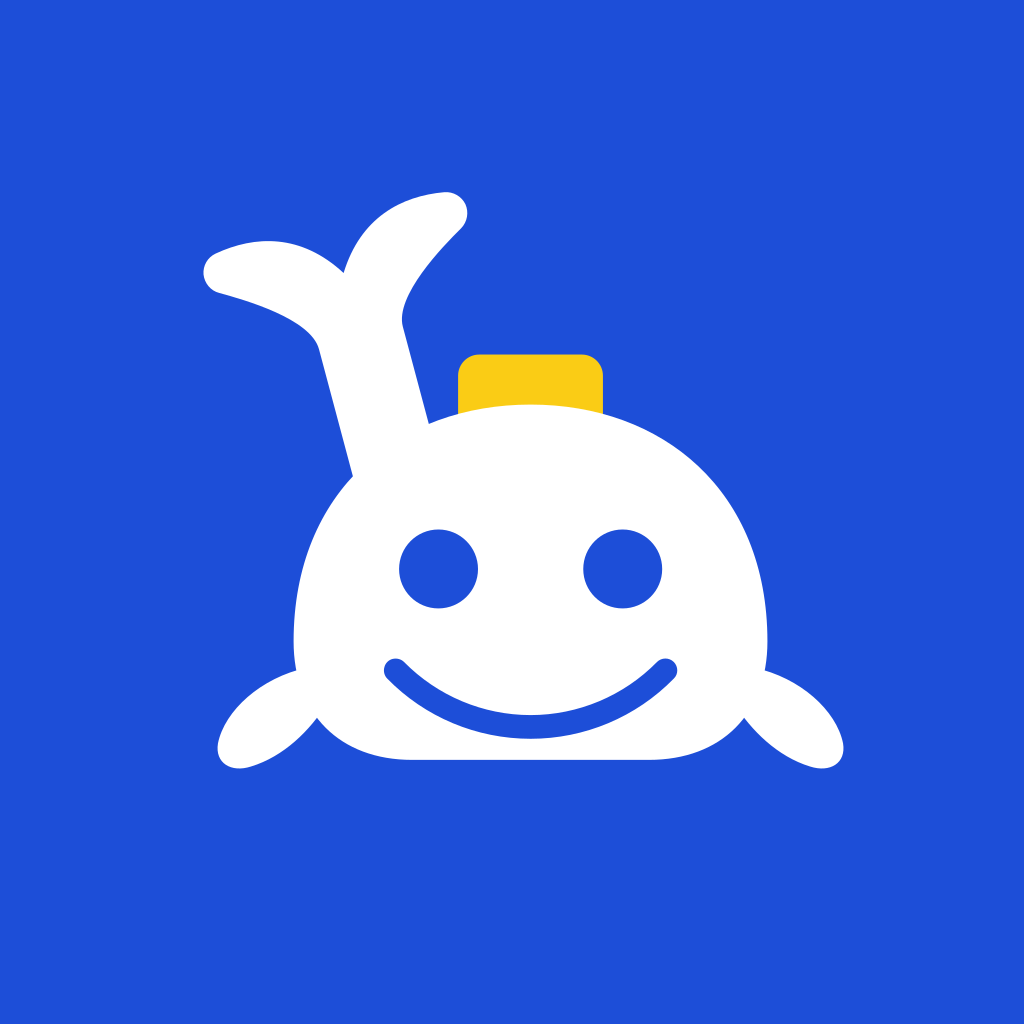
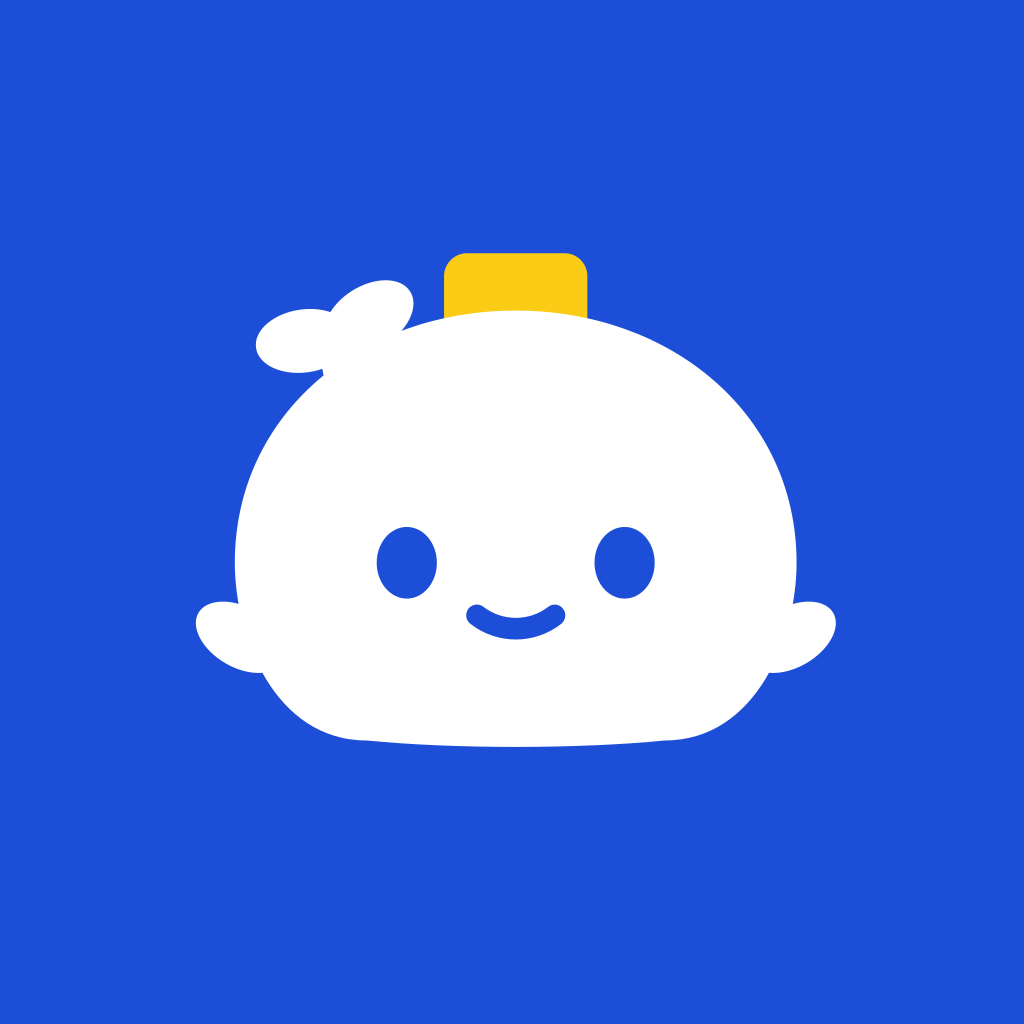
fix(brand): 고래를 작은 미소의 둥근 캐릭터로 다듬음
- 고래 정본과 웹·앱 아이콘, OG를 같은 비율로 다시 생성함
- 작은 눈과 미소, 짧은 꼬리로 표정을 부드럽게 하고 브랜드 기준과 시안을 기록함
- 검증: 자산 동기화·안전 영역·무알파 검사, 웹 4게이트와 모바일 3게이트 통과

Changed region(s): [[0.1875, 0.1875, 0.8438, 0.75], [0.3438, 0.5, 0.5625, 0.625], [0.5625, 0.5312, 0.6562, 0.5938]]

diff --git a/apps/web/src/shared/ui/logo/logo.tsx b/apps/web/src/shared/ui/logo/logo.tsx
@@ -1,7 +1,7 @@
 import { cn } from "@shared/lib";
 
 export interface LogoProps {
-  /** 고래 마크의 가로 픽셀 크기. 세로는 마크 비율(270:243.1)로 정해진다. */
+  /** 고래 마크의 가로 픽셀 크기. 세로는 마크 비율(223.3:172.3)로 정해진다. */
   readonly size?: number;
   readonly showWordmark?: boolean;
   readonly className?: string;
@@ -14,18 +14,26 @@ export interface LogoProps {
  * 정본은 같은 폴더의 `mark.svg`다. 아래 두 경로는 그 파일에서 그대로 복사했고,
  * `scripts/build-brand-icons.mjs`가 문자열이 같은지 검사한다. 마크를 고치면 mark.svg를 먼저 고친다.
  *
- * viewBox는 그림 경계에 딱 맞춘다(꼬리 끝 y=0 ~ 지느러미 끝 y=243.1). 높이도 같은 비율로 계산하므로
- * preserveAspectRatio 레터박스로 빈 띠가 생기지 않는다. 분수 브릭도 이 상자 안(머리 오른쪽 위 빈자리)에
- * 앉혀 spout 변형이 같은 viewBox를 쓴다 — 애니메이션 중 떨어지는 브릭만 overflow로 보인다.
+ * viewBox는 그림 경계에 딱 맞춘다(스터드 윗면 y=0 ~ 배 아래 y=172.3). 높이도 같은 비율로 계산하므로
+ * preserveAspectRatio 레터박스로 빈 띠가 생기지 않는다. 스터드가 맨 위라 상자 안에 분수 자리가 없으므로,
+ * spout 변형만 viewBox를 위로 SPOUT_HEADROOM만큼 넓혀 물줄기·브릭을 상자 안에 둔다.
  */
-const MARK_W = 270;
-const MARK_H = 243.1;
-/** 머리·꼬리·지느러미. 눈과 입은 반대 방향으로 감은 윤곽이라 nonzero 규칙에서 구멍이 된다. */
+const MARK_W = 223.3;
+const MARK_H = 172.3;
+/** spout 변형에서 스터드 위로 물줄기·브릭이 올라갈 자리(마크 단위). */
+const SPOUT_HEADROOM = 58;
+/** 몸·꼬리·지느러미. 눈과 입은 반대 방향으로 감은 윤곽이라 nonzero 규칙에서 구멍이 된다. */
 const BODY_D =
-  "M48.7 66.2C45.2 53.3 17.2 45.4 6.6 42.5C3 41.6 0.4 38.4 0 34.7C-0.3 31 1.7 27.5 5.1 25.9C21.7 18.2 41.1 17.4 59.1 34.1C66.2 10.7 83.4 1.6 101.6 0C105.4 -0.3 108.9 1.8 110.5 5.1C112 8.5 111.3 12.5 108.7 15.2C100.9 22.9 80.6 43.8 84.1 56.8L102 123.8L66.6 133.3ZM38 189.5C38 125.7 82.5 89.6 138 89.6C193.5 89.6 237.9 125.7 237.9 189.5C237.9 220.1 218.5 239.5 187.9 239.5L88 239.5C57.5 239.5 38 220.1 38 189.5ZM51.9 215.9C45 227 33.9 238.1 20 242.3C11.7 245 4.7 240.9 6.1 232.5C8.9 218.7 24.2 204.8 43.6 200.6ZM232.3 200.6C251.8 204.8 267 218.7 269.8 232.5C271.2 240.9 264.3 245 255.9 242.3C242.1 238.1 231 227 224 215.9ZM82.5 159C82.5 168.2 89.9 175.6 99.1 175.6C108.3 175.6 115.8 168.2 115.8 159C115.8 149.8 108.3 142.3 99.1 142.3C89.9 142.3 82.5 149.8 82.5 159ZM160.2 159C160.2 168.2 167.6 175.6 176.8 175.6C186 175.6 193.5 168.2 193.5 159C193.5 149.8 186 142.3 176.8 142.3C167.6 142.3 160.2 149.8 160.2 159ZM77.5 205.2C93.4 221.5 115.2 230.6 138 230.6C160.7 230.6 182.5 221.5 198.4 205.2C200.4 203.3 200.3 200.1 198.4 198.2C196.4 196.2 193.2 196.3 191.3 198.2C177.3 212.5 158 220.6 138 220.6C117.9 220.6 98.7 212.5 84.6 198.2C83.4 197 81.6 196.5 79.8 196.9C78.1 197.3 76.7 198.7 76.3 200.4C75.8 202.1 76.3 204 77.5 205.2Z";
+  "M111.6 20C165.6 20 209.6 56 209.6 108C209.6 134 195.6 170 163.6 170C133.6 173 89.6 173 59.6 170C27.6 170 13.6 134 13.6 108C13.6 56 57.6 20 111.6 20ZM64.3 39.1C67.3 47.4 65.6 55.6 60.4 57.5C55.2 59.4 48.5 54.2 45.5 45.9C42.5 37.6 44.2 29.3 49.4 27.4C54.6 25.6 61.3 30.8 64.3 39.1ZM54.6 28.2C55.5 34.3 48.6 40.2 39.3 41.5C30 42.8 21.8 39 21 33C20.1 27 27 21 36.3 19.7C45.6 18.4 53.8 22.2 54.6 28.2ZM74.8 13.4C78 18.5 74.2 26.8 66.2 31.7C58.2 36.7 49.2 36.6 45.9 31.4C42.7 26.3 46.6 18.1 54.5 13.1C62.5 8.1 71.6 8.2 74.8 13.4ZM30.4 142.5C27.5 147.5 18.5 147.8 10.4 143.1C2.3 138.4 -2 130.5 0.9 125.5C3.8 120.5 12.8 120.2 20.9 124.9C29 129.6 33.3 137.5 30.4 142.5ZM222.4 125.5C225.3 130.5 221 138.4 212.9 143.1C204.8 147.8 195.8 147.5 192.9 142.5C190 137.5 194.3 129.6 202.4 124.9C210.5 120.2 219.5 120.5 222.4 125.5ZM84.1 108C84.1 101.1 79.4 95.5 73.6 95.5C67.8 95.5 63.1 101.1 63.1 108C63.1 114.9 67.8 120.5 73.6 120.5C79.4 120.5 84.1 114.9 84.1 108ZM160.1 108C160.1 101.1 155.4 95.5 149.6 95.5C143.8 95.5 139.1 101.1 139.1 108C139.1 114.9 143.8 120.5 149.6 120.5C155.4 120.5 160.1 114.9 160.1 108ZM127.5 129.3C129.1 128 129.4 125.7 128.1 124C126.9 122.4 124.5 122.1 122.9 123.4C116.3 128.5 107 128.5 100.4 123.4C98.8 122.1 96.4 122.4 95.1 124C93.9 125.7 94.1 128 95.8 129.3C105.1 136.6 118.2 136.6 127.5 129.3Z";
 /** 머리 위 골드 스터드. 몸보다 먼저 그려 아랫단을 머리 속에 묻는다. */
 const GOLD_D =
-  "M116.3 68.5L159.6 68.5C164.5 68.5 168.5 72.5 168.5 77.4L168.5 97.4C168.5 102.3 164.5 106.3 159.6 106.3L116.3 106.3C111.4 106.3 107.4 102.3 107.4 97.4L107.4 77.4C107.4 72.5 111.4 68.5 116.3 68.5Z";
+  "M94.6 0L128.6 0C133.1 0 136.6 3.6 136.6 8L136.6 22C136.6 26.4 133.1 30 128.6 30L94.6 30C90.2 30 86.6 26.4 86.6 22L86.6 8C86.6 3.6 90.2 0 94.6 0Z";
+
+/**
+ * 분수 배치. 아래 물줄기·브릭은 이전 마크(스터드 윗면 가운데 138, 68.5) 좌표로 그렸다. 새 스터드
+ * 윗면 가운데(111.6, 0)로 옮기고, 마크가 작아진 비율(223.3/270 ≈ 0.83)만큼 줄인다.
+ */
+const SPOUT_PLACE = "translate(111.6 0) scale(0.83) translate(-138 -68.5)";
 
 /** 1×2 브릭 한 개 — 몸 34×17 위에 스터드 두 개. */
 function SpoutBrick({ x, y, className }: { x: number; y: number; className: string }) {
@@ -39,11 +47,13 @@ function SpoutBrick({ x, y, className }: { x: number; y: number; className: stri
 }
 
 /**
- * GoLe 고래 — 정면을 보는 둥근 고래, 머리 위에 골드 스터드 하나, 머리 뒤로 솟은 꼬리.
+ * GoLe 고래 — 정면을 보는 통통한 아기 고래, 정수리에 골드 스터드 하나, 머리 뒤로 살짝 나온 짧은 꼬리.
  *
  * <p>설계 원칙: 레고 미니피규어 머리처럼 정수리에 스터드가 하나 있다. 브릭다움은 이 스터드가,
- * 고래다움은 머리 뒤 꼬리(플루크)·넓은 입선·옆 지느러미가 맡는다. 옆모습 고래 등에 네모를 얹는
- * 구도(Docker 로고와 닮은 구도)를 쓰지 않는다. 16px에서는 실루엣·두 눈·골드 한 점이 남는다.
+ * 고래다움은 머리 뒤 둥근 플루크·옆 지느러미가 맡는다. 귀여움은 비율에서 나온다 — 매끈한 돔과
+ * 볼살 같은 아랫단, 아래쪽에 넓게 벌어진 작은 타원 눈, 눈 사이 아래의 작은 미소. 큰 흰 눈·얼굴을
+ * 가로지르는 입·뾰족한 꼬리는 무섭게 읽혀서(2026-10-09 사용자 피드백) 쓰지 않는다. 옆모습 고래 등에
+ * 네모를 얹는 구도(Docker 로고와 닮은 구도)도 쓰지 않는다. 16px에서는 실루엣·두 눈·골드 한 점이 남는다.
  *
  * <p>색은 두 가지 + 골드 한 점이다. 몸·골드는 테마 토큰(brand-600·accent-500)을 따르고,
  * 어두운 배경에서는 호출부가 `[--gole-mark-body:...]`로 몸 색만 바꿀 수 있다(예: 푸터의 흰 고래).
@@ -51,6 +61,8 @@ function SpoutBrick({ x, y, className }: { x: number; y: number; className: stri
  *
  * <p>스터드가 곧 분수공이다. spout 변형은 스터드에서 물줄기와 브릭이 솟아 꼬리 반대쪽(오른쪽)으로
  * 떨어진다. `gole-spout-*` 키프레임이 브릭을 오른쪽 아래로 떨어뜨리므로 그룹을 뒤집지 않는다.
+ * 분수 도형은 이전 마크의 좌표로 그려 두고 SPOUT_PLACE 한 번으로 새 스터드 윗면 가운데에 옮긴다 —
+ * 키프레임이 `transform-box: fill-box`라 축척을 바꿔도 움직임 비율이 그대로다.
  */
 export function Logo({
   size = 32,
@@ -59,21 +71,22 @@ export function Logo({
   accentClassName = "text-brand-600",
   spout = false,
 }: LogoProps) {
+  const headroom = spout ? SPOUT_HEADROOM : 0;
   return (
     <span
       className={cn("inline-flex items-center gap-1.5 font-extrabold tracking-tight", className)}
     >
       <svg
         width={size}
-        height={Math.round((size * MARK_H) / MARK_W)}
-        viewBox={`0 0 ${MARK_W} ${MARK_H}`}
+        height={Math.round((size * (MARK_H + headroom)) / MARK_W)}
+        viewBox={`0 ${-headroom} ${MARK_W} ${MARK_H + headroom}`}
         fill="none"
         aria-hidden="true"
         className="shrink-0 overflow-visible"
       >
         {spout ? (
           // 몸보다 먼저 그려, 떨어지는 브릭이 머리 뒤로 사라지게 한다.
-          <>
+          <g transform={SPOUT_PLACE}>
             <path
               d="M134 66C130 54 128 45 125 37M140 64C142 50 148 40 158 32M146 68C158 58 172 53 188 52"
               strokeWidth="4"
@@ -84,7 +97,7 @@ export function Logo({
             <SpoutBrick x={150} y={24} className="gole-spout-brick-a fill-accent-500" />
             <SpoutBrick x={200} y={8} className="gole-spout-brick-b fill-brand-400" />
             <SpoutBrick x={222} y={52} className="gole-spout-brick-c fill-brand-300" />
-          </>
+          </g>
         ) : null}
         {/* fill 속성은 CSS가 없을 때의 대비값이다. 클래스(토큰 + 변수)가 항상 이긴다. */}
         <path

diff --git a/apps/web/src/app/opengraph-image.tsx b/apps/web/src/app/opengraph-image.tsx
@@ -13,9 +13,9 @@ export const contentType = "image/png";
  * 읽지 않도록 문자열로 들고 있고, `scripts/build-brand-icons.mjs`가 정본과 같은지 검사한다.
  */
 const MARK_BODY_D =
-  "M48.7 66.2C45.2 53.3 17.2 45.4 6.6 42.5C3 41.6 0.4 38.4 0 34.7C-0.3 31 1.7 27.5 5.1 25.9C21.7 18.2 41.1 17.4 59.1 34.1C66.2 10.7 83.4 1.6 101.6 0C105.4 -0.3 108.9 1.8 110.5 5.1C112 8.5 111.3 12.5 108.7 15.2C100.9 22.9 80.6 43.8 84.1 56.8L102 123.8L66.6 133.3ZM38 189.5C38 125.7 82.5 89.6 138 89.6C193.5 89.6 237.9 125.7 237.9 189.5C237.9 220.1 218.5 239.5 187.9 239.5L88 239.5C57.5 239.5 38 220.1 38 189.5ZM51.9 215.9C45 227 33.9 238.1 20 242.3C11.7 245 4.7 240.9 6.1 232.5C8.9 218.7 24.2 204.8 43.6 200.6ZM232.3 200.6C251.8 204.8 267 218.7 269.8 232.5C271.2 240.9 264.3 245 255.9 242.3C242.1 238.1 231 227 224 215.9ZM82.5 159C82.5 168.2 89.9 175.6 99.1 175.6C108.3 175.6 115.8 168.2 115.8 159C115.8 149.8 108.3 142.3 99.1 142.3C89.9 142.3 82.5 149.8 82.5 159ZM160.2 159C160.2 168.2 167.6 175.6 176.8 175.6C186 175.6 193.5 168.2 193.5 159C193.5 149.8 186 142.3 176.8 142.3C167.6 142.3 160.2 149.8 160.2 159ZM77.5 205.2C93.4 221.5 115.2 230.6 138 230.6C160.7 230.6 182.5 221.5 198.4 205.2C200.4 203.3 200.3 200.1 198.4 198.2C196.4 196.2 193.2 196.3 191.3 198.2C177.3 212.5 158 220.6 138 220.6C117.9 220.6 98.7 212.5 84.6 198.2C83.4 197 81.6 196.5 79.8 196.9C78.1 197.3 76.7 198.7 76.3 200.4C75.8 202.1 76.3 204 77.5 205.2Z";
+  "M111.6 20C165.6 20 209.6 56 209.6 108C209.6 134 195.6 170 163.6 170C133.6 173 89.6 173 59.6 170C27.6 170 13.6 134 13.6 108C13.6 56 57.6 20 111.6 20ZM64.3 39.1C67.3 47.4 65.6 55.6 60.4 57.5C55.2 59.4 48.5 54.2 45.5 45.9C42.5 37.6 44.2 29.3 49.4 27.4C54.6 25.6 61.3 30.8 64.3 39.1ZM54.6 28.2C55.5 34.3 48.6 40.2 39.3 41.5C30 42.8 21.8 39 21 33C20.1 27 27 21 36.3 19.7C45.6 18.4 53.8 22.2 54.6 28.2ZM74.8 13.4C78 18.5 74.2 26.8 66.2 31.7C58.2 36.7 49.2 36.6 45.9 31.4C42.7 26.3 46.6 18.1 54.5 13.1C62.5 8.1 71.6 8.2 74.8 13.4ZM30.4 142.5C27.5 147.5 18.5 147.8 10.4 143.1C2.3 138.4 -2 130.5 0.9 125.5C3.8 120.5 12.8 120.2 20.9 124.9C29 129.6 33.3 137.5 30.4 142.5ZM222.4 125.5C225.3 130.5 221 138.4 212.9 143.1C204.8 147.8 195.8 147.5 192.9 142.5C190 137.5 194.3 129.6 202.4 124.9C210.5 120.2 219.5 120.5 222.4 125.5ZM84.1 108C84.1 101.1 79.4 95.5 73.6 95.5C67.8 95.5 63.1 101.1 63.1 108C63.1 114.9 67.8 120.5 73.6 120.5C79.4 120.5 84.1 114.9 84.1 108ZM160.1 108C160.1 101.1 155.4 95.5 149.6 95.5C143.8 95.5 139.1 101.1 139.1 108C139.1 114.9 143.8 120.5 149.6 120.5C155.4 120.5 160.1 114.9 160.1 108ZM127.5 129.3C129.1 128 129.4 125.7 128.1 124C126.9 122.4 124.5 122.1 122.9 123.4C116.3 128.5 107 128.5 100.4 123.4C98.8 122.1 96.4 122.4 95.1 124C93.9 125.7 94.1 128 95.8 129.3C105.1 136.6 118.2 136.6 127.5 129.3Z";
 const MARK_GOLD_D =
-  "M116.3 68.5L159.6 68.5C164.5 68.5 168.5 72.5 168.5 77.4L168.5 97.4C168.5 102.3 164.5 106.3 159.6 106.3L116.3 106.3C111.4 106.3 107.4 102.3 107.4 97.4L107.4 77.4C107.4 72.5 111.4 68.5 116.3 68.5Z";
+  "M94.6 0L128.6 0C133.1 0 136.6 3.6 136.6 8L136.6 22C136.6 26.4 133.1 30 128.6 30L94.6 30C90.2 30 86.6 26.4 86.6 22L86.6 8C86.6 3.6 90.2 0 94.6 0Z";
 
 export default function OpengraphImage() {
   return new ImageResponse(
@@ -62,7 +62,7 @@ export default function OpengraphImage() {
 
       {/* 흰 고래 + 골드 스터드 한 점 — 앱 아이콘과 같은 조합. 눈·입 구멍으로 파란 면이 비친다. */}
       <div style={{ display: "flex", alignItems: "center", paddingBottom: "24px" }}>
-        <svg width="360" height="324" viewBox="0 0 270 243.1" fill="none">
+        <svg width="420" height="324" viewBox="0 0 223.3 172.3" fill="none">
           <path d={MARK_GOLD_D} fill="#facc15" />
           <path d={MARK_BODY_D} fill="#ffffff" />
         </svg>

diff --git a/.kiro/specs/brand-icon/design.md b/.kiro/specs/brand-icon/design.md
@@ -1,5 +1,53 @@
 # Brand Icon Design
 
+## 귀여운 아기 고래로 다시 그림 (2026-10-09, 사용자 피드백)
+
+같은 날 확정한 정면 스터드 머리 고래(아래 절)를 사용자가 "무섭다"고 해서 다시 그렸다. 아래 절의 "얼굴 폭을 거의 다
+가로지르는 입선"과 배치 수치(무게중심 46.3%/61.0%, 전경 50dp)는 이 절이 대체한다.
+
+- **원인별로 바꾼 것** (마크 단위, viewBox `223.3×172.3`):
+  - 큰 흰 눈 → 반지름 10.5×12.5의 작은 세로 타원 눈. 두 눈을 머리 아래쪽(y 108, 몸 높이의 약 58%)에 넓게(간격 76) 벌려
+    아기 얼굴 비율을 만든다. 눈은 여전히 구멍이라 배경색이 비친다 — 크기를 줄여 흰 배경에서도 "흰 눈알"로 읽히지 않는다.
+  - 머리 폭 약 62%의 U자 웃음 → 두 눈 사이 아래의 작은 미소. 폭 약 35로 머리 폭(196)의 약 18%다. 이빨·벌린 입 없음.
+  - 뾰족하게 솟은 긴 꼬리 → 머리 뒤 왼쪽 위로 짧게 나온 둥근 플루크(짧은 줄기 + 서로 겹친 두 잎). 잎을 겹쳐야 새싹·리본이
+    아니라 고래 꼬리로 읽혔다(시안 v1·v2에서 확인).
+  - 몸은 정수리(y 20)에서 매끈한 돔으로 내려와 아랫단을 볼살처럼 둥글게 눌렀고, 옆 지느러미는 짧은 타원(±30°)이다.
+- **유지**: 정면, brand-600 몸 + accent-500 스터드 1개, 두 경로(`gole-gold`·`gole-body`)와 nonzero 구멍 규칙, `GoLe` 워드마크.
+  금지 항목(분홍·그라데이션·3D·거대한 흰 눈·이빨)은 쓰지 않았다.
+- **비율**: `270×243.1 → 223.3×172.3`(가로로 넓고 낮다). 같은 `size`면 더 낮게 그려진다(헤더 32px 폭 → 높이 약 25px).
+  `logo.tsx`는 분수 도형을 이전 좌표로 둔 채 `SPOUT_PLACE`(새 스터드 윗면 가운데로 이동, ×0.83)로 옮기고, `spout`일 때만
+  viewBox를 위로 58 넓힌다. `globals.css`의 `gole-spout-*`는 `transform-box: fill-box`라 바꾸지 않았다.
+  OG 이미지는 같은 높이(324)를 유지해 420×324로 그린다.
+- **생성기 배치**: 새 마크 무게중심이 너비 48.9%·높이 54.8%라 보정을 `NUDGE_X 0.006`·`NUDGE_Y −0.024`(차이의 절반)로
+  줄였다. 마크가 낮아져 Android 전경 폭을 50 → 58dp로 넓혔다 — 높이 약 44.8dp로 이전과 비슷한 시각 크기이고, 최원점(지느러미 끝)은
+  31.2dp로 세이프존(33dp) 안이다(60dp면 32.3dp로 여유가 없다). iOS 640/1024·스플래시 200/256·favicon 52/64 타일은 그대로다.
+  알림 아이콘·카카오 출력은 가원 PR198 몫이라 여기서 추가하지 않았다.
+- **홈 히어로** (`views/home/ui/home-page.tsx`):
+  - 짙은 남색(brand-950) 히어로 위 brand-500 고래는 대비 3.0:1로 캐릭터가 묻혔다. 히어로를 **흰 바탕 + 연한 블루(brand-50) 레일**로
+    가볍게 바꾸고 고래는 기본 brand-600 몸(대비 약 6.1:1)으로 둔다. 큰 드롭섀도는 뺐다.
+  - 골드는 제목 "가장 합리적으로"의 형광펜 밑줄(accent-300)과 고래 스터드 두 곳만 남겼다. 아이브로·지표 머리·섹션 헤더 막대는
+    brand 톤으로 바꿨다. 흰 바탕에서 골드 글자는 대비가 낮아 글자 대신 밑줄로 쓴다.
+  - 주 CTA는 `primary`(brand-600), 보조는 `secondary`. 보조 CTA의 "대화 이어가기"(/chat)는 대화가 없는 신규 방문자에게 거짓이라
+    판매자 거래가 열려 있으면 공개 화면인 "시세 확인하기"(/prices)로 바꿨다. 열리기 전에는 기존대로 "커뮤니티 둘러보기"다.
+    계정 조회를 더하지 않았고 서버 컴포넌트 그대로다.
+  - "오른쪽 숫자가 지금 이 순간의 GoLe입니다" 캡션은 모바일에서 숫자가 아래에 있어 틀렸고, 지표가 없을 때도 떴다. 위치어를 지우고
+    "가격은 감이 아니라 체결 기록에서 나옵니다."만 지표 블록 바로 아래에 붙여 **지표가 있을 때만** 보인다.
+  - 모바일은 레일이 CTA 아래로 내려가므로, 104px 고래를 첫 줄(아이브로) 오른쪽에 따로 두고 레일의 큰 고래는 숨긴다.
+    지표도 없으면 빈 상자가 되지 않게 모바일에서 레일을 숨긴다.
+- 미리보기: `baby-whale-2026-10-09-preview.png` — 16~256px × 밝은·어두운·브랜드 블루·히어로 레일 배경, 이전(HEAD) 마크 비교,
+  `pnpm brand:icons` 실제 생성물(favicon 16/32 8배 확대, iOS, Android 어댑티브·모노크롬, 스플래시). root가 v3 시안을 검수해 반영을 승인했다.
+
+### 검증 (2026-10-09)
+
+- 실제 실행: `pnpm brand:icons` — iOS `icon.png` 1024 무알파, Android 전경·모노크롬 최원점 31.2dp/33dp, `favicon.ico`(16/32/48)·
+  `apple-icon.png`(180, 무알파) 생성. `--check` — 사본 2개(`logo.tsx`·`opengraph-image.tsx`)가 정본과 같음.
+- 실제 실행: `pnpm --filter web format:check`·`lint`·`typecheck`·`fsd:lint`, `pnpm --filter mobile format:check`·`lint`·`typecheck` 모두 통과.
+- 실제 실행: 켜져 있던 dev 서버(:3000)의 `/`가 HTTP 200이고, HTML에 새 마크 경로·`시세 확인하기`가 있으며 `대화 이어가기`·
+  `오른쪽 숫자`·`bg-accent-400`은 없다(정적 HTML 확인일 뿐 화면 확인은 아니다).
+- **미검증**: Orca 브라우저에서 데스크톱·모바일 히어로를 눈으로 보는 것과 `pnpm --filter web build`는 root가 한다. 실기기·시뮬레이터
+  런처 아이콘·스플래시는 EAS 빌드가 필요하다. PR198 병합 뒤에는 root가 `pnpm brand:icons`를 다시 돌려 알림·카카오 출력도 새 마크로 만든다.
+  320px 폭에서는 "가장 합리적으로"가 두 줄로 접히면 형광펜 밑줄이 둘째 줄에만 깔린다(390px에서는 한 줄 — 계산값이며 화면 미확인).
+
 ## 마크 리디자인 (2026-10-09)
 
 - 사용자 요청("로고가 마음에 안 든다")으로 마크를 새로 그렸다. 1차 시안 4개(스터드 등 고래 / 브릭 몸통 고래 / G 모노그램 /

diff --git a/.kiro/specs/brand-icon/requirements.md b/.kiro/specs/brand-icon/requirements.md
@@ -1,5 +1,31 @@
 # Brand Icon Requirements
 
+## 귀여운 고래로 다시 그림 (2026-10-09, 사용자 피드백)
+
+- 사용자: **"고레 캐릭터가 왜 이렇게 무섭게 변했어?"** — 같은 날 확정한 정면 스터드 머리 고래의 스크린샷을 첨부하고
+  **"제대로 귀엽게 만들어줘"**라고 했다. 스크린샷은 목표가 아니라 **싫다는 현재 상태**다.
+- 무섭게 읽히는 원인 셋: ① 얼굴에 비해 **큰 흰 눈**(눈이 몸에 뚫린 구멍이라 흰 배경에서 흰 눈알이 된다),
+  ② 머리 폭의 약 62%를 가로지르는 **과한 U자 웃음**, ③ 머리 뒤로 길게 솟은 **뾰족한 꼬리**.
+- 원하는 것: **둥글고 통통한 아기 고래.** 작고 편안한 미소, 작고 부드러운 눈, 볼살이 느껴지는 둥근 몸,
+  짧고 둥근 꼬리·지느러미. 기존 입·눈을 단순히 줄이는 데서 그치지 않고 **전체 균형**을 다시 잡는다.
+- 유지: 정면 시점, 파란색 몸, 노란 스터드 **1개**, `GoLe` 워드마크, `mark.svg` 정본 + 생성기 체계.
+- 금지: 분홍·그라데이션·3D·거대한 흰 눈·이빨.
+
+### 수용 기준
+
+- 16px·32px에서도 얼굴(두 눈)이 식별된다.
+- 밝은 배경(파란 고래), 어두운 배경(흰 고래), 브랜드 블루 배경(흰 고래 + 골드)에서 모두 확인한다.
+- `pnpm brand:icons`와 `--check`가 통과하고, 생성기의 기존 무알파·세이프존 검사를 통과한다.
+- 홈 히어로에서 캐릭터 대비를 확보한다.
+
+### 홈 히어로 (같은 날 root 지시)
+
+- 무거운 짙은 히어로 대신 흰 바탕·충분한 여백·코발트 버튼·노란 한 점의 가볍고 친근한 흰/연한 블루 구성으로 바꾼다.
+  모바일 첫 화면에서 CTA와 캐릭터가 함께 보이고, 어색한 크기·빈 공간·과한 그림자가 없다.
+- 지표 캡션은 위치어("오른쪽")를 쓰지 않고, 지표가 있을 때만 보인다.
+- 골드는 제목과 스터드에만 쓰고, 주 CTA는 brand 블루다.
+- CTA는 신규 방문자에게도 항상 참이어야 한다. 서버 컴포넌트를 client로 바꾸거나 계정 조회를 더하지 않는다.
+
 ## 카카오 디벨로퍼스 아이콘 추가 (2026-09-23)
 
 - 사용자 요청으로 GoLe 카카오 앱(ID 1563935)에 등록할 전용 아이콘을 만든다.

diff --git a/.kiro/specs/brand-icon/tasks.md b/.kiro/specs/brand-icon/tasks.md
@@ -1,5 +1,18 @@
 # Brand Icon Tasks
 
+## 귀여운 고래로 다시 그림 (2026-10-09, 사용자 피드백)
+
+- [x] 사용자 피드백("무섭게 변했다 → 제대로 귀엽게")과 원인 셋을 요구사항에 남긴다.
+- [x] `mark.svg`를 통통한 아기 고래로 다시 그리고 `logo.tsx`·`opengraph-image.tsx`에 경로를 복사한다. — `--check` 사본 2개 일치
+- [x] 생성기 배치(무게중심 보정·세이프존)를 새 마크에 맞추고 `pnpm brand:icons`로 자산을 다시 만든다. — 최원점 31.2dp/33dp, iOS·apple-icon 무알파
+- [x] 16·32·64·256px × 밝은·어두운·브랜드 배경 미리보기 시트를 만들어 시안 확인을 받는다. — `baby-whale-2026-10-09-preview.png`, root가 v3 검수
+- [x] 홈 히어로: 캐릭터 대비 확보, 위치어 없는 지표 캡션, 골드 절제(제목 + 스터드), 주 CTA brand, 신규 방문자에게도 맞는 CTA.
+  — 흰 바탕 + brand-50 레일로 밝게 바꿈(root 지시)
+- [x] 웹·모바일 품질 게이트를 돌리고 실제 결과와 미검증을 구분해 남긴다. — web 4종·mobile 3종 통과(`design.md` 검증 절)
+- [ ] Orca 브라우저에서 데스크톱·모바일 홈 히어로를 눈으로 확인한다. — root 담당, 미검증
+- [ ] `pnpm --filter web build`를 돌린다. — root가 최종 실시, 미검증
+- [ ] PR198(알림·카카오 출력) 병합 뒤 `pnpm brand:icons`를 다시 돌려 새 마크로 맞춘다. — root 담당
+
 ## 마크 리디자인 (2026-10-09)
 
 - [x] 시안 4개를 크기·배경별로 비교하고 스터드 등 고래를 고른다.
